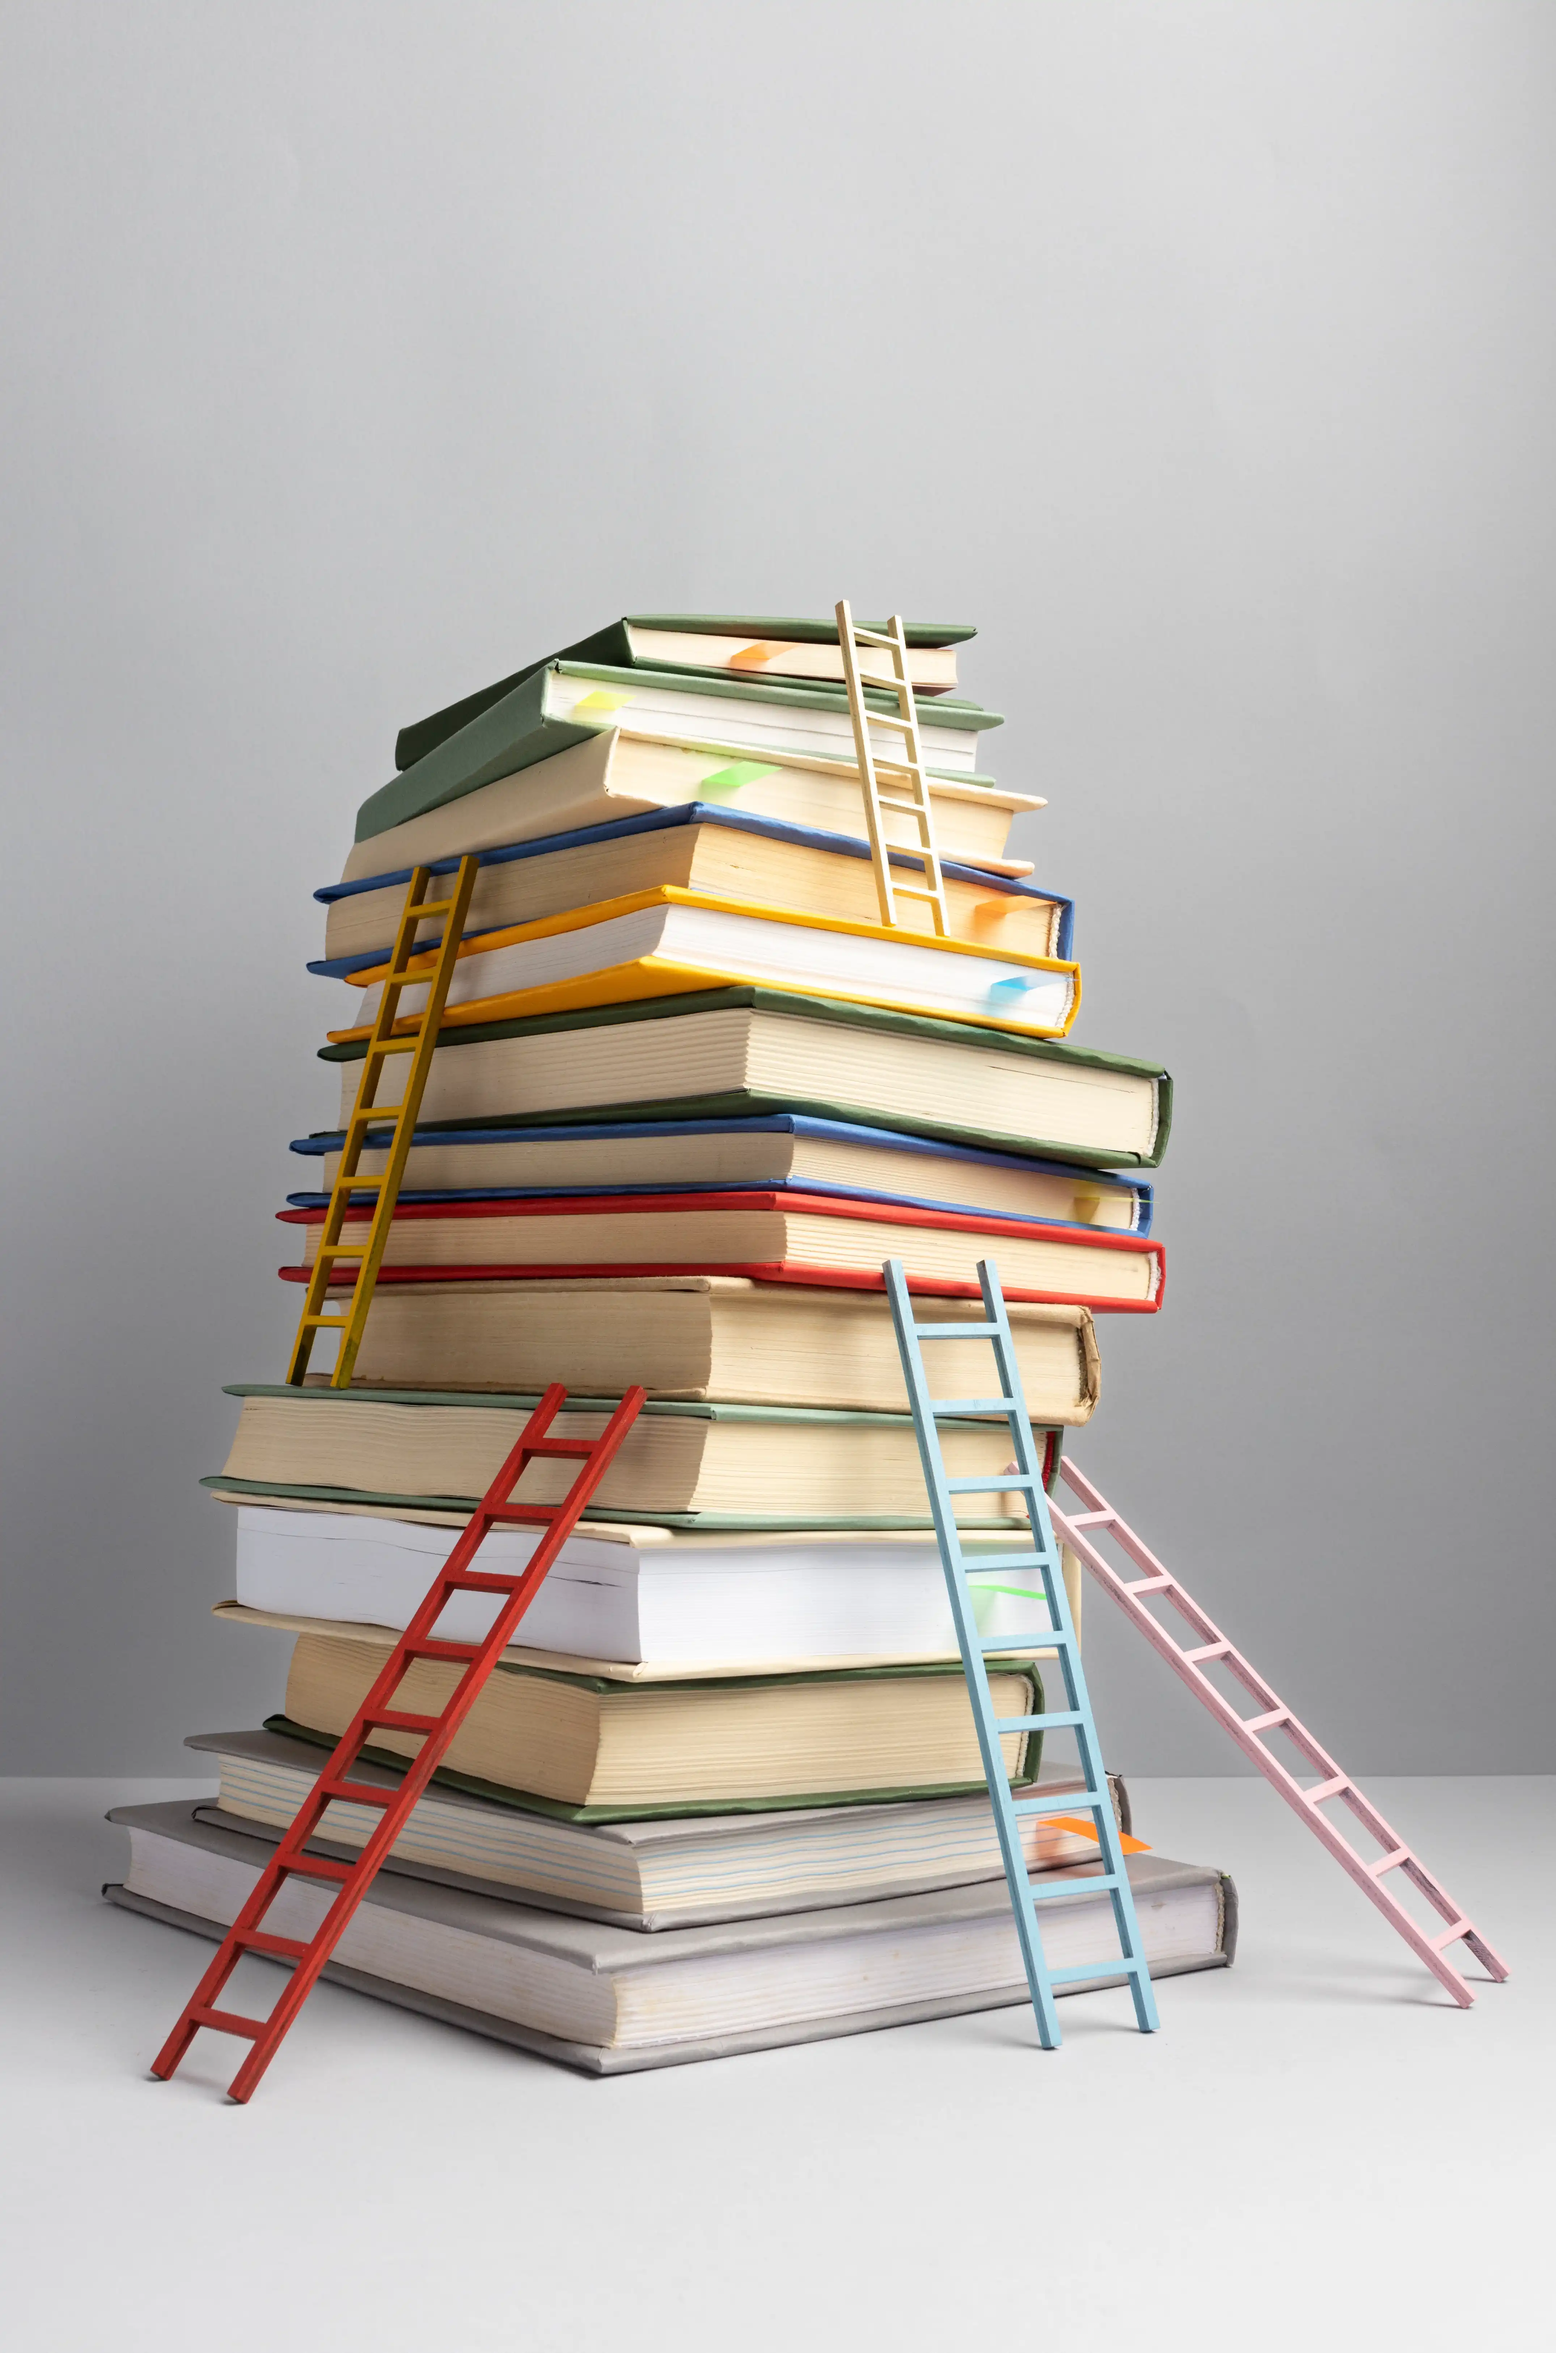
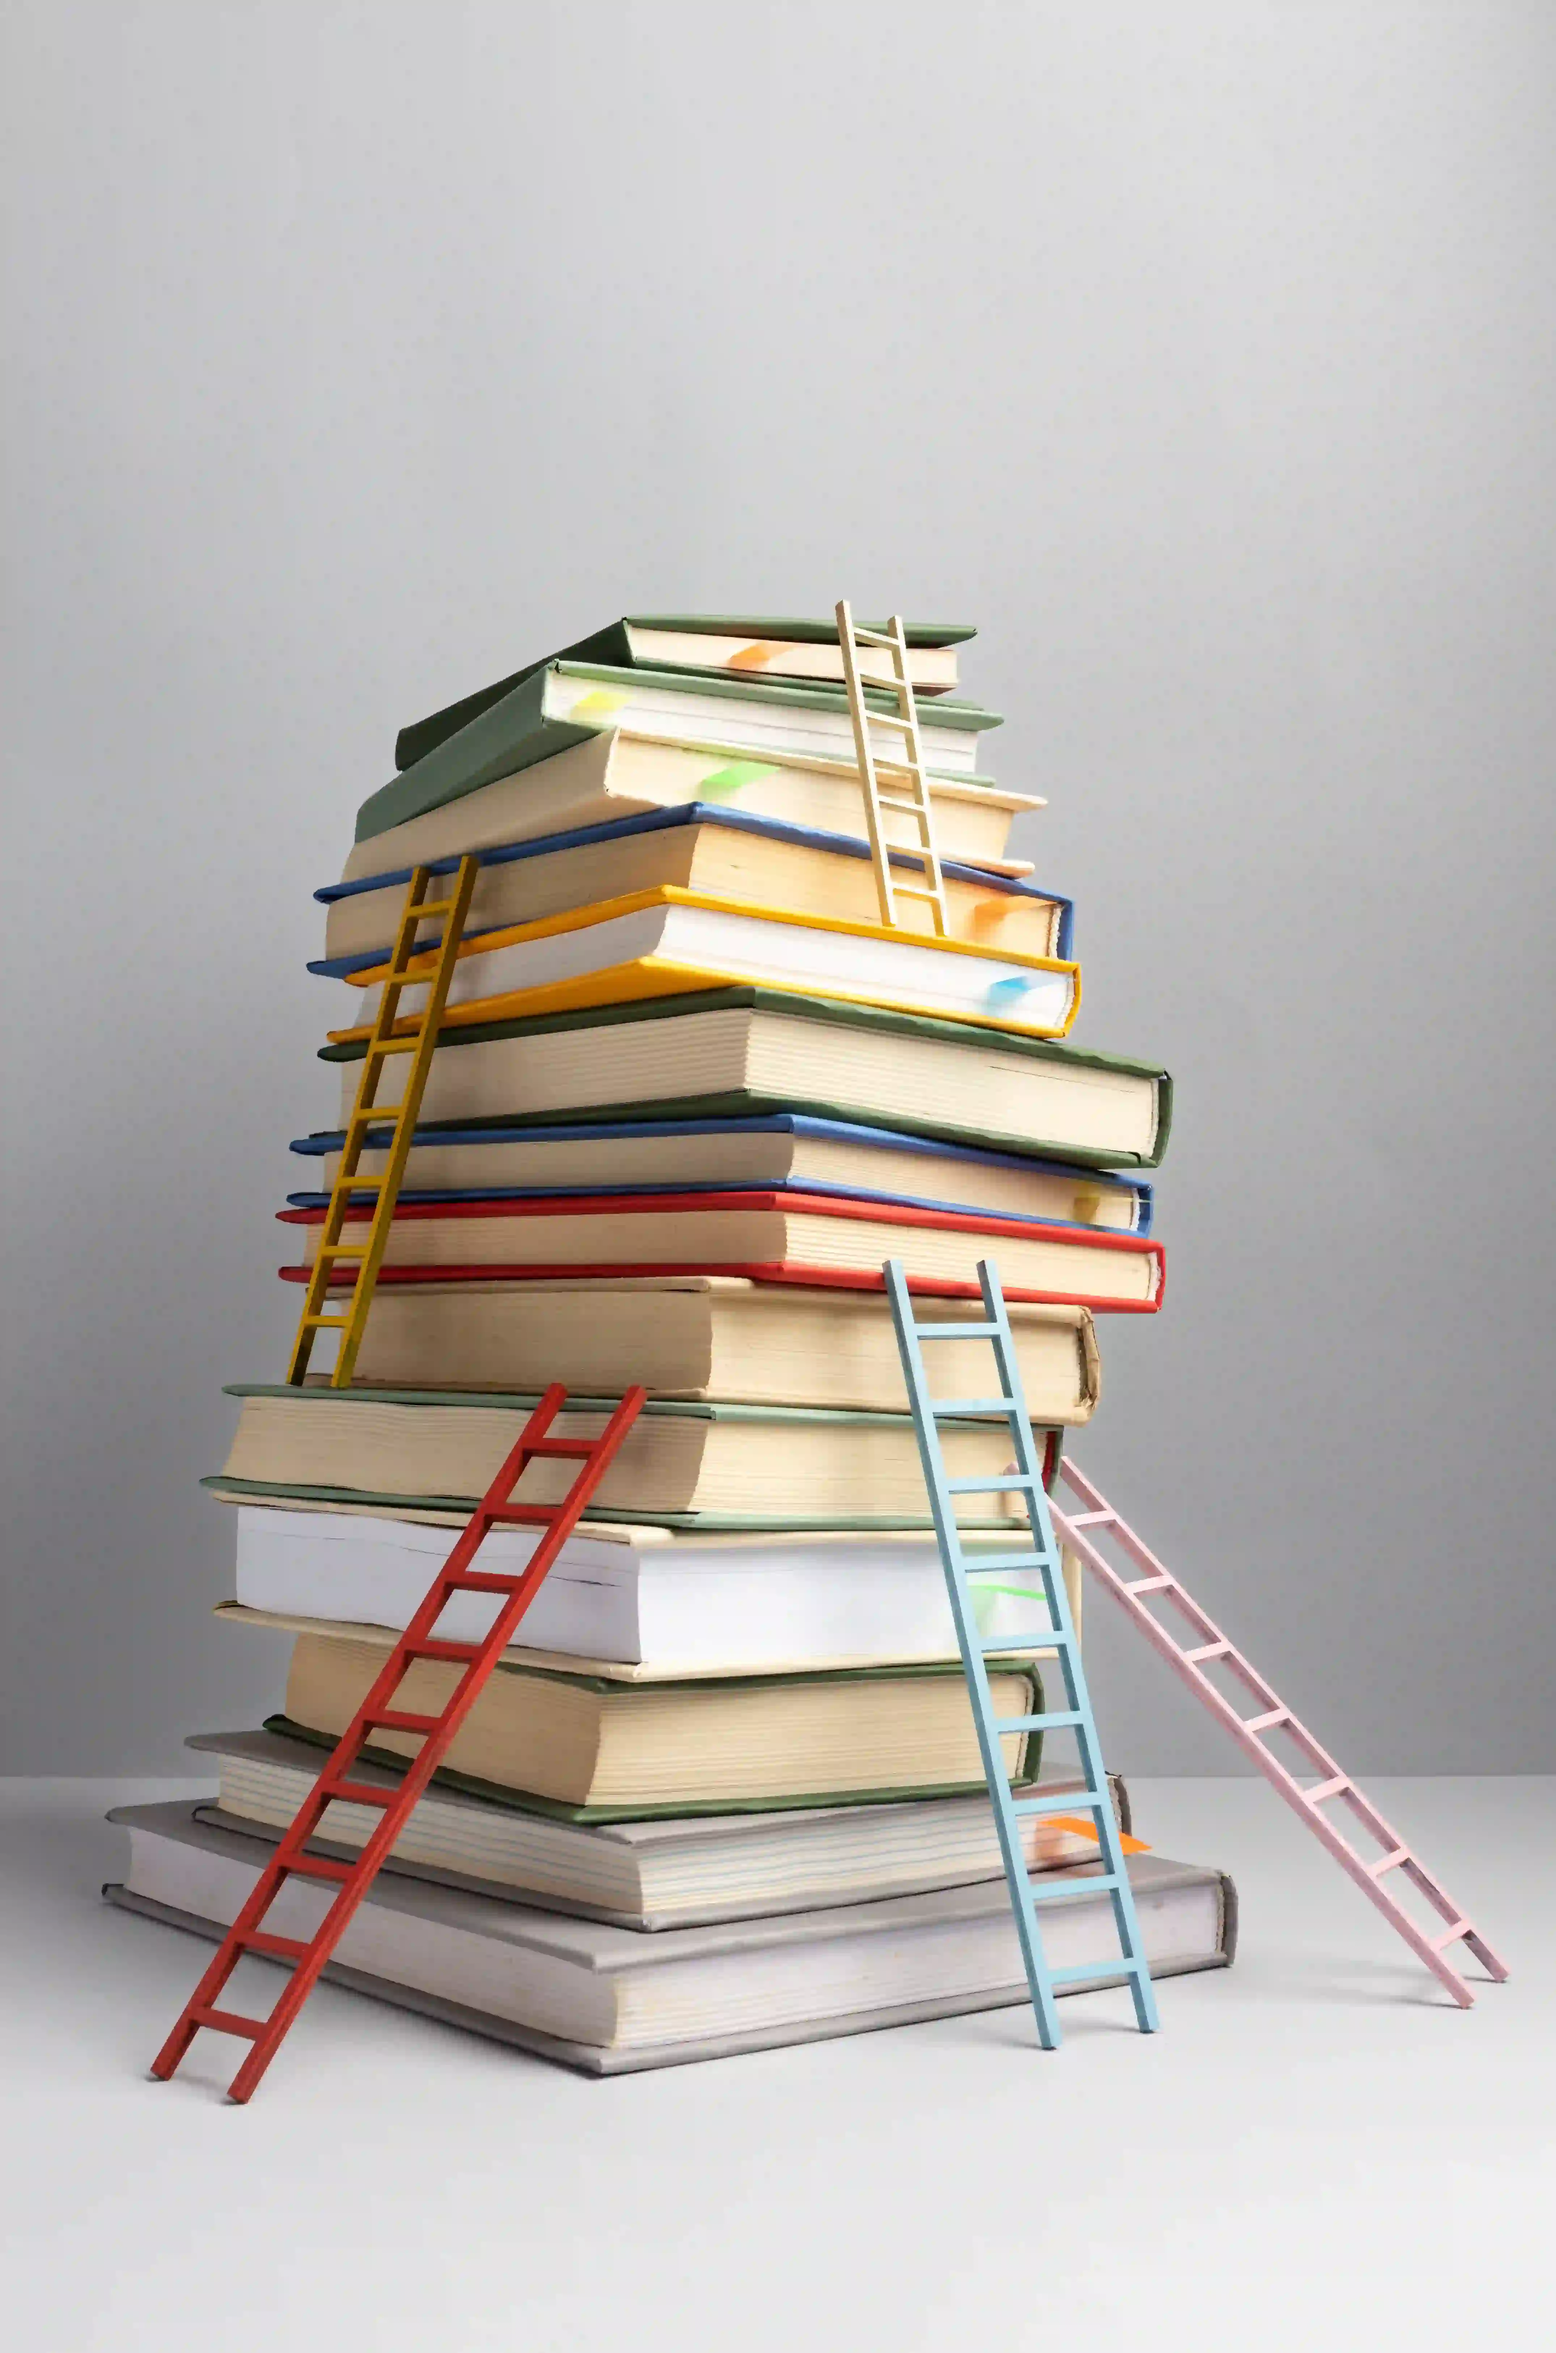
fix: lower resolution of static/images/stacked_books.webp and add dimensions to all remaining images

diff --git a/books/templates/books/manage_book.html b/books/templates/books/manage_book.html
@@ -27,8 +27,8 @@
     </section>
     <div class="row h-100">
         <div class="d-none d-lg-flex justify-content-center align-items-center col-lg-5 text-center">
-            <img class="img-fluid rounded vh-75 text-center object-fit-contain my-3" 
-            src="{% static 'images/open_book.webp' %}" alt="A single book on a shelf.">
+            <img class="img-fluid rounded vh-75 text-center object-fit-contain my-3" width="1600" height="2000" 
+            src="{% static 'images/open_book.webp' %}" alt="A single book, balanced and open.">
         </div>
         <!-- Manage book -->
         <section id="manage" class="justify-content-center d-flex flex-column col-lg-6 mt-3 mb-2 mb-lg-0">

diff --git a/books/templates/books/about_us.html b/books/templates/books/about_us.html
@@ -5,7 +5,7 @@
 <div class="container-fluid h-100">
     <div class="row h-100">
         <div class="d-none d-lg-flex col-lg-5 align-items-center justify-content-center">
-            <img class="object-fit-contain img-fluid rounded mx-auto w-auto vh-75 m-4"
+            <img class="object-fit-contain img-fluid rounded mx-auto w-auto vh-75 m-4" width="4300" height="6500"
             src="{% static 'images/stacked_books.webp' %}" alt="A stack of books.">
         </div>
         <!-- About us main article -->

diff --git a/books/templates/books/add_book.html b/books/templates/books/add_book.html
@@ -36,7 +36,7 @@
         </section>
         <!-- Image div -->
         <div class="d-none d-lg-block col-lg-6 text-center pl-5">
-            <img class="img-fluid rounded vh-75 text-center object-fit-contain my-3" 
+            <img class="img-fluid rounded vh-75 text-center object-fit-contain my-3" width="1300" height="1477" 
             src="{% static 'images/chosen_book.webp' %}" alt="A single book on a shelf.">
         </div>
     </div>

diff --git a/static/css/style.css b/static/css/style.css
@@ -4,6 +4,10 @@ body {
     font-family: "Merriweather", serif;
 }
 
+a {
+    color: #0250C5;
+}
+
 .btn-primary {
     background-color: #0250C5;
     border-color: #0250C5;

diff --git a/staticfiles/css/style.css b/staticfiles/css/style.css
@@ -4,6 +4,10 @@ body {
     font-family: "Merriweather", serif;
 }
 
+a {
+    color: #0250C5;
+}
+
 .btn-primary {
     background-color: #0250C5;
     border-color: #0250C5;
